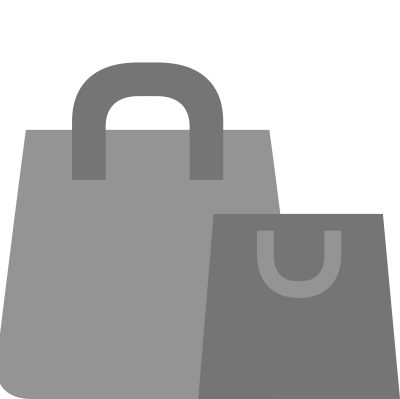
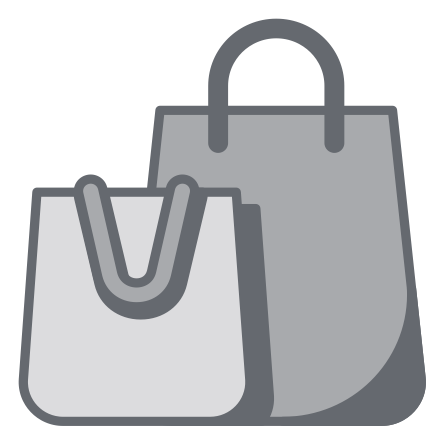
Fix what dark mode was getting wrong
outlineVariant had no dark value, so light mode's #DCDCDE carried straight into
dark and every divider, field underline and off-toggle in the app came out near
white. Gray70 gives dark the same relationship inverted — a step off the surface
rather than a line drawn across it.

The empty cart was still on an older illustration, and faked its dark variant by
inverting the light one under a blend mode. The app ships a drawn-for-purpose file
per appearance — the dark one is not the light one inverted, its fills lighten
while its outlines darken — so take both and drop the trickery.

diff --git a/src/components/ios/PosCartPane.tsx b/src/components/ios/PosCartPane.tsx
@@ -1,12 +1,13 @@
-import { useState, useEffect } from 'react';
 import { PosText } from './PosText';
 import { PosButton } from './PosButton';
 import { ProductImage } from '../android/ProductImage';
 import { DragScroll } from '../android/DragScroll';
 import { Trash, Barcode, Tag, ChevronLeft } from './IosIcons';
 import { useCart, type CartLine } from '../../state/CartContext';
+import { useIsDark } from '../../hooks/useIsDark';
 import { formatUsd } from '../../lib/currency';
 import lightBagsImg from '../../assets/ios/shopping-bags-light.png';
+import darkBagsImg from '../../assets/ios/shopping-bags-dark.png';
 
 /**
  * iOS cart pane (CartView.swift). Header "Cart" + item count with a trailing "Clear cart"
@@ -125,37 +126,19 @@ export function PosCartPane({
   );
 }
 
-function useIsDark() {
-  const [isDark, setIsDark] = useState(
-    () => typeof document !== 'undefined' && document.documentElement.getAttribute('data-theme') === 'dark'
-  );
-  useEffect(() => {
-    const obs = new MutationObserver(() => {
-      setIsDark(document.documentElement.getAttribute('data-theme') === 'dark');
-    });
-    obs.observe(document.documentElement, { attributes: true, attributeFilter: ['data-theme'] });
-    return () => obs.disconnect();
-  }, []);
-  return isDark;
-}
 
-/** iOS empty-cart illustration: the WooFoundation shopping-bags asset.
- *  Both PDFs render with a white background; blend modes remove the seam:
- *  light mode — multiply (white × white surface = invisible bg, grey bags visible)
- *  dark mode — invert(1) + screen (white→black blends into dark surface, inverted bags visible) */
+/** iOS empty-cart illustration — `pos-shopping-bags` from the app's own asset catalogue, which
+ *  ships a drawn-for-purpose variant per appearance (the dark one is not the light one
+ *  inverted: its fills lighten while its outlines darken). Taking both means no blend-mode
+ *  trickery to hide a background, which is what the single light asset used to need. */
 function ShoppingBags() {
   const isDark = useIsDark();
   return (
     <img
-      src={lightBagsImg}
+      src={isDark ? darkBagsImg : lightBagsImg}
       alt=""
       aria-hidden
-      style={{
-        width: 112, height: 104, objectFit: 'contain',
-        ...(isDark
-          ? { filter: 'invert(1)', mixBlendMode: 'screen' as const }
-          : { mixBlendMode: 'multiply' as const }),
-      }}
+      style={{ width: 112, height: 104, objectFit: 'contain' }}
     />
   );
 }

diff --git a/src/hooks/useIsDark.ts b/src/hooks/useIsDark.ts
@@ -1,0 +1,24 @@
+import { useEffect, useState } from 'react';
+
+/**
+ * Whether the simulated device is in dark mode. Theme is an attribute on `<html>` (the same
+ * attribute-driven pattern as platform and device size), so this watches it rather than taking
+ * a prop — anything needing a per-appearance asset can ask for itself.
+ *
+ * Only for things CSS can't express: a light/dark *image* pair. Colours belong in tokens.
+ */
+export function useIsDark(): boolean {
+  const [isDark, setIsDark] = useState(
+    () => typeof document !== 'undefined' && document.documentElement.getAttribute('data-theme') === 'dark',
+  );
+
+  useEffect(() => {
+    const observer = new MutationObserver(() => {
+      setIsDark(document.documentElement.getAttribute('data-theme') === 'dark');
+    });
+    observer.observe(document.documentElement, { attributes: true, attributeFilter: ['data-theme'] });
+    return () => observer.disconnect();
+  }, []);
+
+  return isDark;
+}

diff --git a/src/theme/tokens.css b/src/theme/tokens.css
@@ -183,6 +183,11 @@
   --color-on-success: #101517;
 
   --color-outline: #8c8f94;
+  /* Gray70. Light mode's #dcdcde is a hairline against white; left undefined here it carried
+     straight into dark, where every divider, field underline and off-toggle came out near
+     white. Dark needs the same relationship inverted — a step off the surface, not a line
+     drawn across it. */
+  --color-outline-variant: #3c434a;
   --color-disabled-container: #50575e;
   --color-tertiary-icon: #720eec;
   --color-pos-link: #64b5f6;
